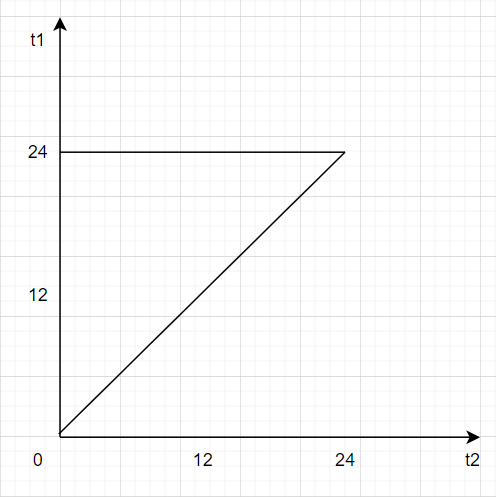
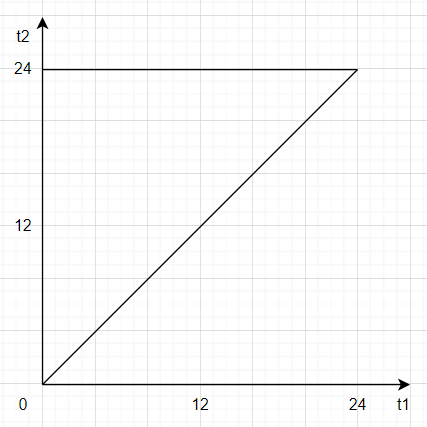
Q3 complete

diff --git a/main.tex b/main.tex
@@ -33,28 +33,28 @@
 \maketitle
 
 \begin{questions}
-\question A number $U$ is selected at random from the unit interval. Let the events $A$ and $B$ be:
-$A$ = ``$U$ differs from $\frac{1}{2}$ by more than $\frac{1}{4}$'' and $B$ = ``$1 - U$ is less than $\frac{1}{2}$.''
-Find the events:
-\begin{parts}
-    \part $A \cap B$
-    \begin{solution}
-        \(A \cap B = \left\{U \in [0, 1] \mid \left| U - \frac{1}{2} \right| > \frac{1}{4} \text{ and } 1 - U < \frac{1}{2}\right\}\)
+    \question A number $U$ is selected at random from the unit interval. Let the events $A$ and $B$ be:
+    $A$ = ``$U$ differs from $\frac{1}{2}$ by more than $\frac{1}{4}$'' and $B$ = ``$1 - U$ is less than $\frac{1}{2}$.''
+    Find the events:
+    \begin{parts}
+        \part $A \cap B$
+        \begin{solution}
+            \(A \cap B = \left\{U \in [0, 1] \mid \left| U - \frac{1}{2} \right| > \frac{1}{4} \text{ and } 1 - U < \frac{1}{2}\right\}\)
 
-    \end{solution}
-    \part $A \cup B$
-    \begin{solution}
-        \(A \cup B = \left\{U \in [0, 1] \mid \left| U - \frac{1}{2} \right| > \frac{1}{4} \text{ or } 1 - U < \frac{1}{2}\right\}\)
+        \end{solution}
+        \part $A \cup B$
+        \begin{solution}
+            \(A \cup B = \left\{U \in [0, 1] \mid \left| U - \frac{1}{2} \right| > \frac{1}{4} \text{ or } 1 - U < \frac{1}{2}\right\}\)
 
-    \end{solution}
-    \part $A^c \cap B$
-    \begin{solution}
-        \(A^c \cap B = \left\{U \in [0, 1] \mid \left| U - \frac{1}{2} \right| \leq \frac{1}{4} \text{ and } 1 - U < \frac{1}{2}\right\}\)
+        \end{solution}
+        \part $A^c \cap B$
+        \begin{solution}
+            \(A^c \cap B = \left\{U \in [0, 1] \mid \left| U - \frac{1}{2} \right| \leq \frac{1}{4} \text{ and } 1 - U < \frac{1}{2}\right\}\)
 
-    \end{solution}
-\end{parts}
+        \end{solution}
+    \end{parts}
 
-\question Let $A, B,$ and $C$ be events. Find expressions for the events:
+    \question Let $A, B,$ and $C$ be events. Find expressions for the events:
     \begin{parts}
         \part Exactly one of the three events occurs.
         \begin{solution}
@@ -83,85 +83,129 @@ Find the events:
         \end{solution}
     \end{parts}
 
-\question In a specified 8-AM-to-8-AM 24-hour period, a student wakes up at time $t_1$  and goes to sleep at some later time $t_2$.
-\begin{parts}
-\part
-Find the sample space and sketch it on the x-y plane if the outcome of this experiment consists of the pair $(t_1, t_2)$
-\begin{solution}
-    The sample space for this experiment consists of all possible pairs of times $(t_1, t_2)$ when the student wakes up at time $t_1$ and goes to sleep at time $t_2$. Since it's a 24-hour period, both $t_1$ and $t_2$ can range from 0 (midnight) to 24 (midnight of the next day). However, $t_2$ should be greater than or equal to $t_1$ since the student goes to sleep after waking up.
+    \question In a specified 8-AM-to-8-AM 24-hour period, a student wakes up at time $t_1$  and goes to sleep at some later time $t_2$.
+    \begin{parts}
+        \part
+        Find the sample space and sketch it on the x-y plane if the outcome of this experiment consists of the pair $(t_1, t_2)$
+        \begin{solution}
+            The sample space for this experiment consists of all possible pairs of times $(t_1, t_2)$ when the student wakes up at time $t_1$ and goes to sleep at time $t_2$. Since it's a 24-hour period, both $t_1$ and $t_2$ can range from 0 (midnight) to 24 (midnight of the next day). However, $t_2$ should be greater than or equal to $t_1$ since the student goes to sleep after waking up.
 
-So, the sample space is the set of all pairs $(t_1, t_2)$ where $0 \leq t_1 \leq 24$ and $t_1 \leq t_2 \leq 24$.
-    \centering
-    \includegraphics[width=0.5\textwidth]{images/3a.png}
-\end{solution}
-\part
-Specify the set $A$ and sketch the region on the plane corresponding to the event “student is asleep at noon.”
-\part
-Specify the set $B$ and sketch the region on the plane corresponding to the event “student sleeps through breakfast (9–10 AM).”
-\part Sketch the region corresponding to $A \cap B$and describe the corresponding event in words.
-\end{parts}
+            So, the sample space is the set of all pairs $(t_1, t_2)$ where $0 \leq t_1
+                \leq 24$ and $t_1 \leq t_2 \leq 24$.
 
-\question
-A dart is equally likely to land at any point inside a circular target of radius 2. Let $R$ be the distance of the landing point from the origin.
-\begin{parts}
+            The sample space for this experiment is the triangle shown in the figure below.
 
-\part
-Find the sample space $S$ and the range if $R$, $S_R$;
+            \begin{center}
+                \includegraphics[width=0.5\textwidth]{images/3a.png}
+            \end{center}
 
-\part
-Show the mapping from $S$ to $S_R$;
+        \end{solution}
+        \part
+        Specify the set $A$ and sketch the region on the plane corresponding to the event “student is asleep at noon.”
+        \begin{solution}
+            The event “student is asleep at noon” corresponds to when the student wakes up after noon or wakes up before noon and goes to sleep before noon as well. The set of all pairs $(t_1, t_2)$ where $4 < t_1 < t_2$ or $t_1 < t_2 < 4$.
+            The set $A$ is the shaded region in the figure below.
 
-\part
-The ``bull's eye'' is the central disk in the target of radius 0.25. Find the event $A$ in $S_R$ corresponding to ``dart hits the bull's eye.'' Find the equivalent event in S and $P(A)$.
+            \begin{center}
+                \includegraphics[width=0.5\textwidth]{images/3b.png}
+            \end{center}
 
-\part
-Find and plot the cdf of $R$.
-\end{parts}
+            The yellow shaded region corresponds to the set $4 < t_1 < t_2$ and the green
+            shaded region corresponds to the set $t_1 < t_2 < 4$, and the union of these
+            two regions is the set $A$.
 
-\newpage
+        \end{solution}
+        \part
+        Specify the set $B$ and sketch the region on the plane corresponding to the event “student sleeps through breakfast (9–10 AM).”
+        \begin{solution}
+            The event “student sleeps through breakfast (9-10 AM)” corresponds to when the student wakes up after 10 AM or wakes up before 9 AM and goes to sleep before 9 AM as well. The set of all pairs $(t_1, t_2)$ where $2 < t_1 < t_2$ or $t_1 < t_2 < 1$.
+            The set $B$ is the shaded region in the figure below.
 
-\question
-A voltage $X$ is uniformly distributed in the set $\{-3, -2, \dots, 3, 4\}$.
-\begin{parts}
+            \begin{center}
+                \includegraphics[width=0.5\textwidth]{images/3c.png}
+            \end{center}
 
-\part Find the mean and variance of $X$.
-\part Find the mean and variance of $Y = -2 X^22 + 3$.
-\part Find the mean and variance of $Z = \cos (\pi X/8)$.
-\part Find the mean and variance of $W = \cos^2  (\pi X/8)$.
-\end{parts}
+            The green shaded region corresponds to the set $2 < t_1 < t_2$ and the red
+            shaded region corresponds to the set $t_1 < t_2 < 1$, and the union of these
+            two regions is the set $B$.
+        \end{solution}
+        \part Sketch the region corresponding to $A \cap B$ and describe the corresponding event in words.
+        \begin{solution}
+            The set $A \cap B$ is the intersection of the sets $A$ and $B$ where the student wakes up after noon or wakes up before 9 AM and goes to sleep before 9 AM as well.
+            The set $A \cap B$ is the set of all pairs $(t_1, t_2)$ where $4 < t_1 < t_2$ or $t_1 < t_2 < 1$.
+            The set $A \cap B$ is the shaded region in the figure below.
 
-\question
-A random variable $X$ has pdf:
-\begin{equation*}
-  f_X(x) = \begin{cases}
-        c x (1 - x^2), & 0 \le x \le 1, \\
-        0, &  \text{elsewhere}.
+            \begin{center}
+                \includegraphics[width=0.5\textwidth]{images/3d.png}
+            \end{center}
+
+            The green shaded region corresponds to the set $4 < t_1 < t_2$ and the red
+            shaded region corresponds to the set $t_1 < t_2 < 1$, and the union of
+            these two regions is the set $A \cap B$.
+        \end{solution}
+    \end{parts}
+
+    \question
+    A dart is equally likely to land at any point inside a circular target of radius 2. Let $R$ be the distance of the landing point from the origin.
+    \begin{parts}
+
+        \part
+        Find the sample space $S$ and the range if $R$, $S_R$;
+
+        \part
+        Show the mapping from $S$ to $S_R$;
+
+        \part
+        The ``bull's eye'' is the central disk in the target of radius 0.25. Find the event $A$ in $S_R$ corresponding to ``dart hits the bull's eye.'' Find the equivalent event in S and $P(A)$.
+
+        \part
+        Find and plot the cdf of $R$.
+    \end{parts}
+
+    \newpage
+
+    \question
+    A voltage $X$ is uniformly distributed in the set $\{-3, -2, \dots, 3, 4\}$.
+    \begin{parts}
+
+        \part Find the mean and variance of $X$.
+        \part Find the mean and variance of $Y = -2 X^22 + 3$.
+        \part Find the mean and variance of $Z = \cos (\pi X/8)$.
+        \part Find the mean and variance of $W = \cos^2  (\pi X/8)$.
+    \end{parts}
+
+    \question
+    A random variable $X$ has pdf:
+    \begin{equation*}
+        f_X(x) = \begin{cases}
+            c x (1 - x^2), & 0 \le x \le 1,    \\
+            0,             & \text{elsewhere}.
         \end{cases}
-\end{equation*}
-\begin{parts}
+    \end{equation*}
+    \begin{parts}
 
-\part Find c and plot the pdf and the cdf of X.
-\part Find $P(0 \le X \le 0.5)$, $P(X = 1)$, and $P(0.25 \le X \le 0.5)$.
-\end{parts}
+        \part Find c and plot the pdf and the cdf of X.
+        \part Find $P(0 \le X \le 0.5)$, $P(X = 1)$, and $P(0.25 \le X \le 0.5)$.
+    \end{parts}
 
-\question
-Consider two RVs, X and Y, and an RV, Z, such that $P[Z = X] = p$ and $P[Z = Y] = 1 - p$.
+    \question
+    Consider two RVs, X and Y, and an RV, Z, such that $P[Z = X] = p$ and $P[Z = Y] = 1 - p$.
 
-\begin{parts}
+    \begin{parts}
 
-\part Show that the pdf of Z is given by
-$$
-f_Z(z) = p f_X(z) + (1-p) f_Y(z).
-$$
-\part Calculate the cdf of two-sided exponential RV that has PDF given by
-\begin{equation*}
-  f_Z(z) = \begin{cases}
-        p \lambda e^{\lambda z}, & z < 0, \\
-        (1 - p) \lambda e^{-\lambda z}, & z \ge 0.
-        \end{cases}
-\end{equation*}
-where $\lambda > 0$ and $0 < p < 1$.
-\end{parts}
+        \part Show that the pdf of Z is given by
+        $$
+            f_Z(z) = p f_X(z) + (1-p) f_Y(z).
+        $$
+        \part Calculate the cdf of two-sided exponential RV that has PDF given by
+        \begin{equation*}
+            f_Z(z) = \begin{cases}
+                p \lambda e^{\lambda z},        & z < 0,   \\
+                (1 - p) \lambda e^{-\lambda z}, & z \ge 0.
+            \end{cases}
+        \end{equation*}
+        where $\lambda > 0$ and $0 < p < 1$.
+    \end{parts}
 \end{questions}
 
 \end{document}
